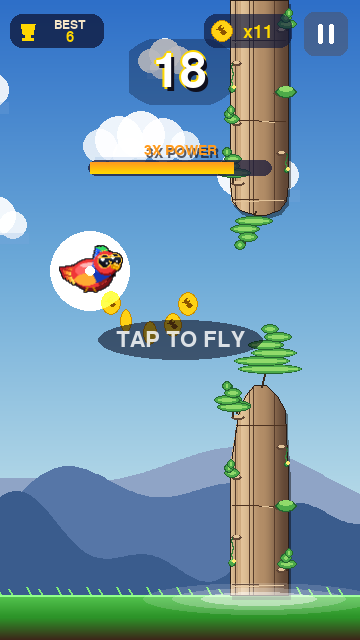
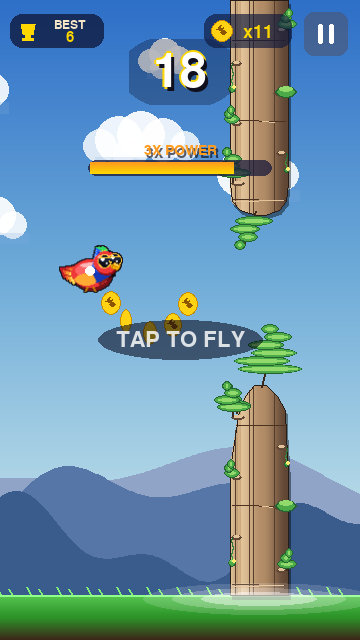
mushroom no longer speeds up the game or puts a halo on the bird
Two subtle leaks of mushroom state into the rest of the game:

1. _diff_t() ramped difficulty on self.score, and _on_coin added 3
   to score per coin during the power-up. That meant collecting coins
   during the mushroom window pushed the scroll-speed curve forward
   three times as fast, so the game visibly accelerated after pickup
   even though time_scale itself was gone. Switched _diff_t to ramp
   on coin_count, which is always +1 per coin. Mushroom now only
   affects the displayed score.

2. scenes.py drew a pulsing orange blit_glow around the bird for the
   full 8 seconds of triple_timer. Additive-blended against the sky
   it read as a fuzzy white halo wrapped around the parrot. Deleted
   the glow block entirely (and the now-unused blit_glow import).
   The HUD "3X POWER" timer bar at the top still communicates the
   buff is active.

Changed region(s): [[0.1222, 0.3438, 0.3667, 0.5]]

diff --git a/game/world.py b/game/world.py
@@ -70,7 +70,9 @@ class World:
     # ── difficulty ───────────────────────────────────────────────────────────
 
     def _diff_t(self):
-        return max(0.0, min(1.0, self.score / 40.0))
+        # Ramp on raw coins collected, not score — so the mushroom's 3×
+        # multiplier buffs score only and does not accelerate difficulty.
+        return max(0.0, min(1.0, self.coin_count / 40.0))
 
     # ── biome ────────────────────────────────────────────────────────────────
 
@@ -340,8 +342,6 @@ class World:
                 random.randint(2, 4),
                 col, gravity=300,
             ))
-        # "+3" during the buff is bigger and offset further from the bird
-        # so the 3X aura doesn't swallow it (see REVIEW.md finding).
         if value == 3:
             label = "+3"
             color = UI_ORANGE

diff --git a/game/scenes.py b/game/scenes.py
@@ -8,7 +8,7 @@ import pygame
 from game.config import W, H, FPS, TITLE, GROUND_Y
 from game.draw import (
     get_sky_surface_biome, draw_mountains, draw_cloud, draw_ground,
-    blit_glow, UI_RED,
+    UI_RED,
 )
 from game import biome as _biome
 from game.world import World
@@ -192,11 +192,6 @@ class App:
             c.draw(self.screen)
         for m in self.world.mushrooms:
             m.draw(self.screen)
-
-        if self.world.triple_timer > 0 and self.world.bird.alive:
-            pulse = 10 + int(math.sin(pygame.time.get_ticks() * 0.01) * 3)
-            blit_glow(self.screen, int(self.world.bird.x + sx), int(self.world.bird.y + sy),
-                      28 + pulse, (255, 170, 60), 160)
 
         self.world.bird.draw(self.screen, sx, sy)
 
